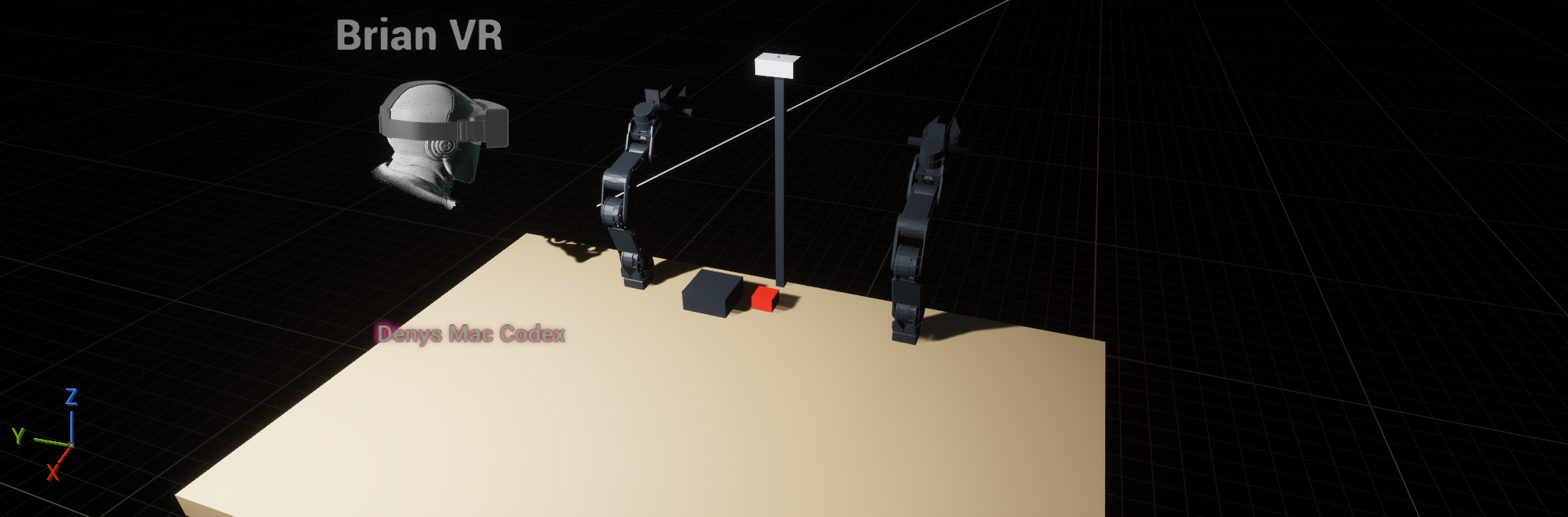
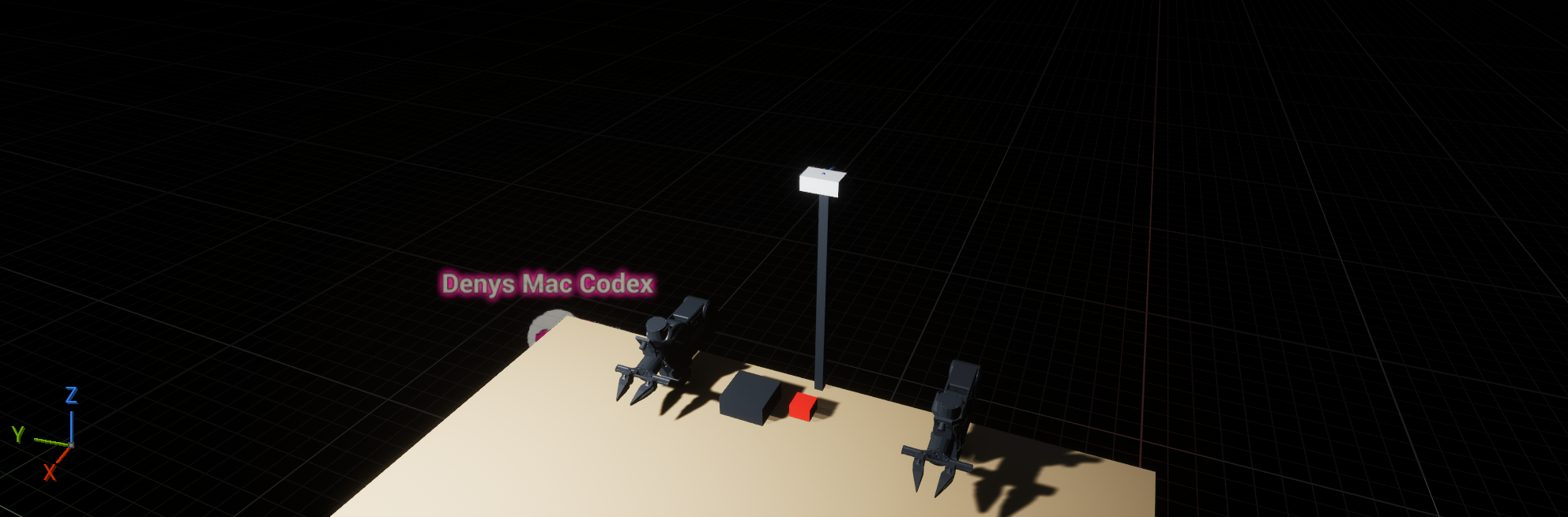
Match Maker Arm mounting direction to physical station

diff --git a/Unreal/TheHumanTouch/Tools/maker_arm_station.py b/Unreal/TheHumanTouch/Tools/maker_arm_station.py
@@ -1,6 +1,7 @@
 """Official Maker Arm mesh/kinematic representation, through scoped CoPresence tools.
 Physical calibration/dynamics remain unvalidated upstream. No hardware commands.
 """
+import math
 import unreal
 import yam_station
 from maker_arm_model import model, mounted_frames, ue_pose
@@ -8,13 +9,15 @@ from maker_arm_model import model, mounted_frames, ue_pose
 ASSETS = '/Game/_Agents/Denys_Mac_Codex/MakerArm'
 PREFIX = 'MakerArm_'
 BASES = dict(yam_station.BASES)  # Existing station placement, explicitly uncalibrated.
-REST = [0, -1.2, 1.4, 0.4, 0, 0]
+REST = [0, 0, 0, 0, 0, 0]
+# Overhead reference: both bases on one long edge, grippers into +X table workspace.
+MOUNT_YAW = {side: math.pi for side in BASES}
 VISUAL_LINKS = [l.get('name') for l in model().findall('link') if l.findall('visual')]
 
 def set_pose(side, q, gap=0.04):
     if side not in BASES:
         raise ValueError('Unknown arm')
-    transforms = mounted_frames(q, gap)
+    transforms = mounted_frames(q, gap, yaw=MOUNT_YAW[side])
     existing = yam_station.actors()
     labels = {n: PREFIX+side+'_'+n for n in VISUAL_LINKS}
     if any(label not in existing for label in labels.values()):

diff --git a/Unreal/TheHumanTouch/Tools/test_maker_arm_model.py b/Unreal/TheHumanTouch/Tools/test_maker_arm_model.py
@@ -24,6 +24,13 @@ class MakerArmModelTest(unittest.TestCase):
                     self.assertAlmostEqual((a[i]+b[i])/2, closed['gripper_left'][i][3], places=8)
                     self.assertAlmostEqual(f['grasp_center'][i][3],closed['grasp_center'][i][3],places=8)
 
+    def test_physical_station_mount_direction(self):
+        f=mounted_frames([0]*6, yaw=math.pi)
+        self.assertLess(f["link_004"][0][3], 0)  # Folded elbow behind base.
+        self.assertGreater(f["grasp_center"][0][3], .20)  # Gripper into table.
+        self.assertAlmostEqual(f["grasp_center"][1][3], 0, places=6)
+        self.assertGreater(f["grasp_center"][2][3], .10)
+
     def test_rejects_bad_commands(self):
         for q, gap in [([0]*5,.04),([0,float('nan'),0,0,0,0],.04),([0]*6,-.01),([0]*6,.105),([0,.1,0,0,0,0],.04)]:
             with self.assertRaises(ValueError): frames(q,gap)

diff --git a/Unreal/TheHumanTouch/Tools/maker_arm_model.py b/Unreal/TheHumanTouch/Tools/maker_arm_model.py
@@ -46,9 +46,11 @@ def frames(q, gap=0.04):
             pending.remove(j)
     return out
 
-def mounted_frames(q, gap=0.04):
+def mounted_frames(q, gap=0.04, yaw=0.0):
     """Rotate CAD Y-up onto world Z-up, as documented by upstream."""
-    mount = rotation([1, 0, 0], math.pi / 2)
+    if not math.isfinite(yaw):
+        raise ValueError("Mount yaw must be finite")
+    mount = mul(rotation([0, 0, 1], yaw), rotation([1, 0, 0], math.pi / 2))
     return {name: mul(mount, t) for name, t in frames(q, gap).items()}
 
 def prepare(destination=None):

diff --git a/docs/maker-arm-model.md b/docs/maker-arm-model.md
@@ -31,3 +31,7 @@ The CAD uses Y-up geometry; upstream mentions a +90-degree X inspection display 
 ## Current project state
 
 The official source model is downloaded and its mesh references verified. Nine combined link meshes have been imported into the live Unreal scene, and both YAM arms have been replaced by 18 Maker Arm link actors. Imported bounds agree with the converted CAD vertices within 0.1 mm. All 18 actors were observed on Luna2 after Multi-User synchronization. This is currently an editor kinematic representation, not yet a physics articulation or calibrated physical twin. The map has been renamed to `/Game/Maps/TheHumanTouch`, verified active on Mac and Luna2, and selected for both default-map settings. The guarded binary checkpoint and confirmation of Brian’s active map remain unfinished.
+
+## Physical orientation reference
+
+The November 7 overhead photo places both arms on the same long table edge, reaching in parallel across the table. `maker_arm_station.py` now applies a 180-degree mount yaw to both official CAD assemblies and uses the folded zero pose; the gripper grasp frames point into +X and the elbows lie behind the bases. Dimensions and exact encoder pose are still unmeasured. Four offline checks cover model coordinates, symmetric jaws, invalid commands, and this mounting direction. The updated pose was observed on Luna2.
